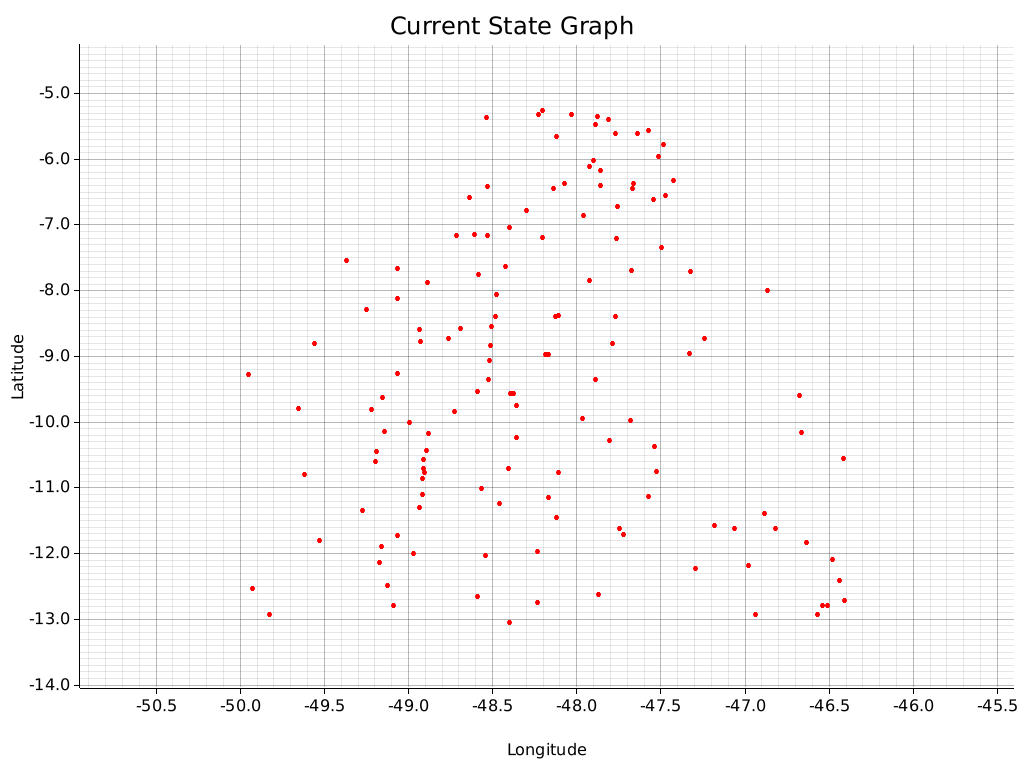
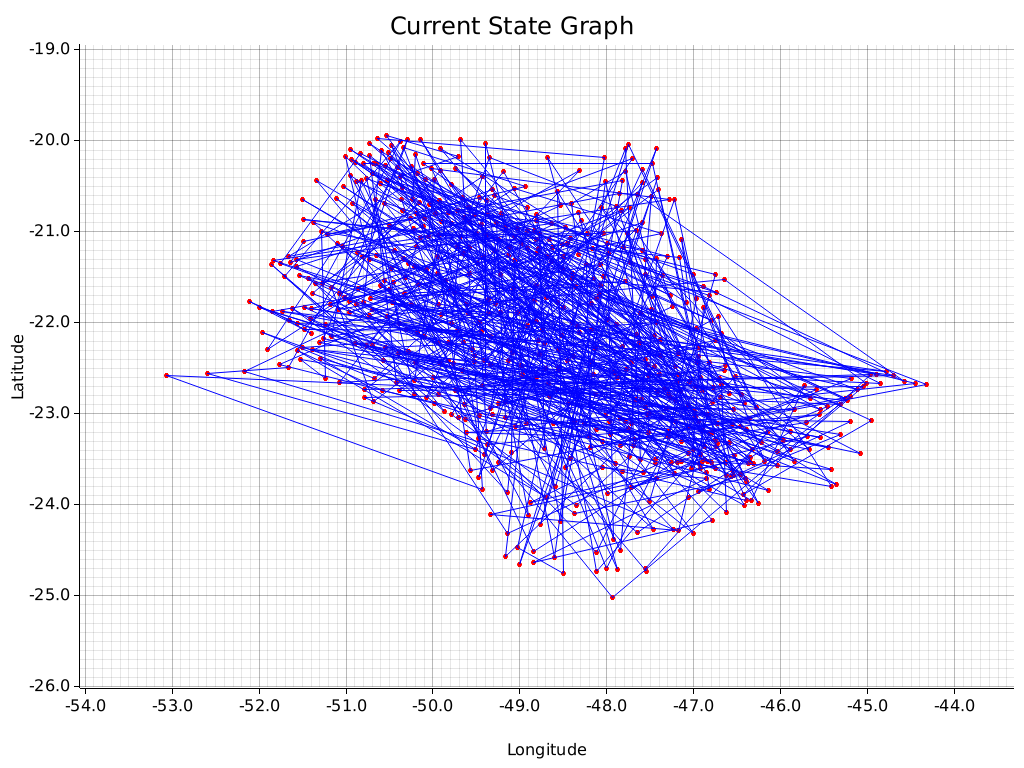
Create distance matrix

Changed region(s): [[0.0312, 0.0625, 1.0, 0.9375]]

diff --git a/src/main.rs b/src/main.rs
@@ -4,7 +4,7 @@ mod algorithm;
 use models::{city::City, coordinates::Coordinates, uf::{UFEnum, UF}};
 use clap::Parser;
 use core::f32;
-use std::{fs::File, error::Error};
+use std::{fs::File, error::Error, iter::once};
 use algorithm::algorithm_strategy::AlgorithmStrategy;
 use csv::Reader;
 // update to just the used ones
@@ -23,7 +23,7 @@ struct Args {
     plot: bool
 }
  
-fn plot_current_state(cities: &Vec<City>, path: &str, uf: &UF) -> Result<(), Box<dyn Error>> {
+fn plot_current_state(cities: &Vec<City>, cities_path: &[u16], file_path: &str, uf: &UF) -> Result<(), Box<dyn Error>> {
     let (min_x, max_x): (f32, f32) = uf.get_min_max_longitude().clone();
     let (min_y, max_y): (f32, f32) = uf.get_min_max_latitude().clone();
     let image_size = (1024, 768);
@@ -31,7 +31,7 @@ fn plot_current_state(cities: &Vec<City>, path: &str, uf: &UF) -> Result<(), Box
     let caption_font_size = 30;
     let y_x_font_size = 20;
 
-    let image = BitMapBackend::new(path, image_size).into_drawing_area();
+    let image = BitMapBackend::new(file_path, image_size).into_drawing_area();
     image.fill(&WHITE)?;
 
     let latitudes_array: Vec<f32> = cities.iter()
@@ -41,6 +41,13 @@ fn plot_current_state(cities: &Vec<City>, path: &str, uf: &UF) -> Result<(), Box
     let longitudes_array: Vec<f32> = cities.iter()
         .map(|city| city.get_coordinates().get_longitude())
         .collect();
+
+    let path_lines: Vec<(f32, f32)> = cities_path.iter()
+                                                 .map(|&id| {
+                                                    let coordinates = cities[id as usize].get_coordinates();
+                                                    (coordinates.get_longitude(), coordinates.get_latitude())
+                                                 })
+                                                 .collect();
 
     let mut chart = ChartBuilder::on(&image)
         .caption("Current State Graph", (font_style, caption_font_size))
@@ -61,6 +68,8 @@ fn plot_current_state(cities: &Vec<City>, path: &str, uf: &UF) -> Result<(), Box
             Circle::new((x, y), 2, RED.filled())
         }),
     )?;
+
+    chart.draw_series(once(PathElement::new(path_lines, &BLUE)))?;
 
     image.present()?;
     Ok(())
@@ -117,9 +126,11 @@ fn main() {
         cities = retrieve_cities_for_uf(&uf.get_uf_enum(), &cities);
     }
     
-    if plot {
-        plot_current_state(&cities, "src/assets/graph.png", &uf).unwrap();
-    }
+    let cities_result = AlgorithmStrategy::execute_algorithm(algorithm, &cities);    
     
-    let cities_result = AlgorithmStrategy::execute_algorithm(algorithm, cities);
+    if plot {
+        let mut initial_path = cities_result.get_initial_path().clone();
+        initial_path.push(initial_path[0]);
+        plot_current_state(&cities, &initial_path, "src/assets/graph.png", &uf).unwrap();
+    }
 }

diff --git a/src/algorithm/algorithm.rs b/src/algorithm/algorithm.rs
@@ -1,5 +1,65 @@
 use crate::models::city::City;
 
+pub struct ExecuteResponse {
+    initial_path: Vec<u16>,
+    final_path: Vec<u16>,
+    distance: f64
+}
+
+impl ExecuteResponse {
+    pub fn new(initial_path: Vec<u16>, final_path: Vec<u16>, distance: f64) -> Self {
+        ExecuteResponse { initial_path, final_path, distance }
+    }
+
+    pub fn get_initial_path (&self) -> &Vec<u16> {
+        &self.initial_path
+    }
+
+    pub fn get_final_path (&self) -> &Vec<u16> {
+        &self.final_path
+    }
+
+    pub fn get_distance (&self) -> &f64 {
+        &self.distance
+    }
+}
+
 pub trait Algorithm {
-    fn execute(cities: Vec<City>) -> Vec<City>;
+    fn execute(cities: &Vec<City>) -> ExecuteResponse;
+
+    fn calculate_distance_between_cities(city1: &City, city2: &City) -> f64 {
+        let c1_coord = city1.get_coordinates();
+        let c2_coord = city2.get_coordinates();
+
+        let x_part: f64 = (c2_coord.get_longitude() - c1_coord.get_longitude()).powi(2).into();
+        let y_part: f64 = (c2_coord.get_latitude() - c1_coord.get_latitude()).powi(2).into();
+
+        (x_part + y_part).sqrt()
+    }
+
+    fn create_distance_matrix(cities: &Vec<City>) -> Vec<f64> {
+        let n = cities.len();
+
+        let mut distance_matrix: Vec<f64> = vec![0.0; n * n];
+
+        for i in 0..n {
+            for j in 0..n {
+                if i < j {
+                    let distance = Self::calculate_distance_between_cities(&cities[i], &cities[j]);
+                    distance_matrix[Self::matrix_index(n, i, j)] = distance;
+                    distance_matrix[Self::matrix_index(n, j, i)] = distance;
+                } 
+            }
+        }
+
+        distance_matrix
+    }
+
+    fn get_in_matrix(matrix: &[f64], size: usize, row: usize, column: usize) -> f64 {
+        matrix[Self::matrix_index(row, size, column)]
+    }
+
+    fn matrix_index(size: usize, row: usize, column: usize) -> usize{
+        row * size + column
+    }
 }

diff --git a/src/algorithm/algorithm_strategy.rs b/src/algorithm/algorithm_strategy.rs
@@ -1,4 +1,4 @@
-use super::algorithm::Algorithm;
+use super::algorithm::{Algorithm, ExecuteResponse};
 use super::ant_colony_optimization::AntColonyOptimization;
 use super::branch_and_bound::BranchAndBound;
 use super::genetic::Genetic;
@@ -8,7 +8,7 @@ use crate::models::city::City;
 pub struct AlgorithmStrategy;
 
 impl AlgorithmStrategy {
-    pub fn execute_algorithm(algorithm: &str, cities: Vec<City>) -> Vec<City> {
+    pub fn execute_algorithm(algorithm: &str, cities: &Vec<City>) -> ExecuteResponse {
         match algorithm.to_uppercase().as_str() {
             "ACO" => AntColonyOptimization::execute(cities),
             "BB" => BranchAndBound::execute(cities),

diff --git a/src/algorithm/genetic.rs b/src/algorithm/genetic.rs
@@ -1,12 +1,14 @@
-use super::algorithm::Algorithm;
+use super::algorithm::{Algorithm, ExecuteResponse};
 use crate::models::city::City;
 
 pub struct Genetic;
 
 impl Algorithm for Genetic {
-    fn execute(cities: Vec<City>) -> Vec<City> {
-        // TBD
+    fn execute(cities: &Vec<City>) -> ExecuteResponse {
         println!("Execute Genetic");
-        cities
+        let distance_matrix = Self::create_distance_matrix(&cities);
+        let initial_path: Vec<u16> = (0..=cities.len()-1).map(|x| x as u16).collect();
+        ExecuteResponse::new(initial_path, vec![], 0.0)
+
     }
 }

diff --git a/src/algorithm/ant_colony_optimization.rs b/src/algorithm/ant_colony_optimization.rs
@@ -1,12 +1,12 @@
-use super::algorithm::Algorithm;
+use super::algorithm::{Algorithm, ExecuteResponse};
 use crate::models::city::City;
 
 pub struct AntColonyOptimization;
 
 impl Algorithm for AntColonyOptimization {
-    fn execute(cities: Vec<City>) -> Vec<City> {
+    fn execute(cities: &Vec<City>) -> ExecuteResponse {
         // TBD
         println!("Execute AntColonyOptimization");
-        cities
+        ExecuteResponse::new(vec![], vec![], 0.0)
     }
 }

diff --git a/src/algorithm/simulated_annealing.rs b/src/algorithm/simulated_annealing.rs
@@ -1,12 +1,12 @@
-use super::algorithm::Algorithm;
+use super::algorithm::{Algorithm,ExecuteResponse};
 use crate::models::city::City;
 
 pub struct SimulatedAnnealing;
 
 impl Algorithm for SimulatedAnnealing {
-    fn execute(cities: Vec<City>) -> Vec<City> {
+    fn execute(cities: &Vec<City>) -> ExecuteResponse {
         // TBD
         println!("Execute SimulatedAnnealing");
-        cities
+        ExecuteResponse::new(vec![], vec![], 0.0)
     }
 }

diff --git a/src/algorithm/branch_and_bound.rs b/src/algorithm/branch_and_bound.rs
@@ -1,12 +1,12 @@
-use super::algorithm::Algorithm;
+use super::algorithm::{Algorithm, ExecuteResponse};
 use crate::models::city::City;
 
 pub struct BranchAndBound;
 
 impl Algorithm for BranchAndBound {
-    fn execute(cities: Vec<City>) -> Vec<City> {
+    fn execute(cities: &Vec<City>) -> ExecuteResponse {
         // TBD
         println!("Execute BranchAndBound");
-        cities
+        ExecuteResponse::new(vec![], vec![], 0.0)
     }
 }
